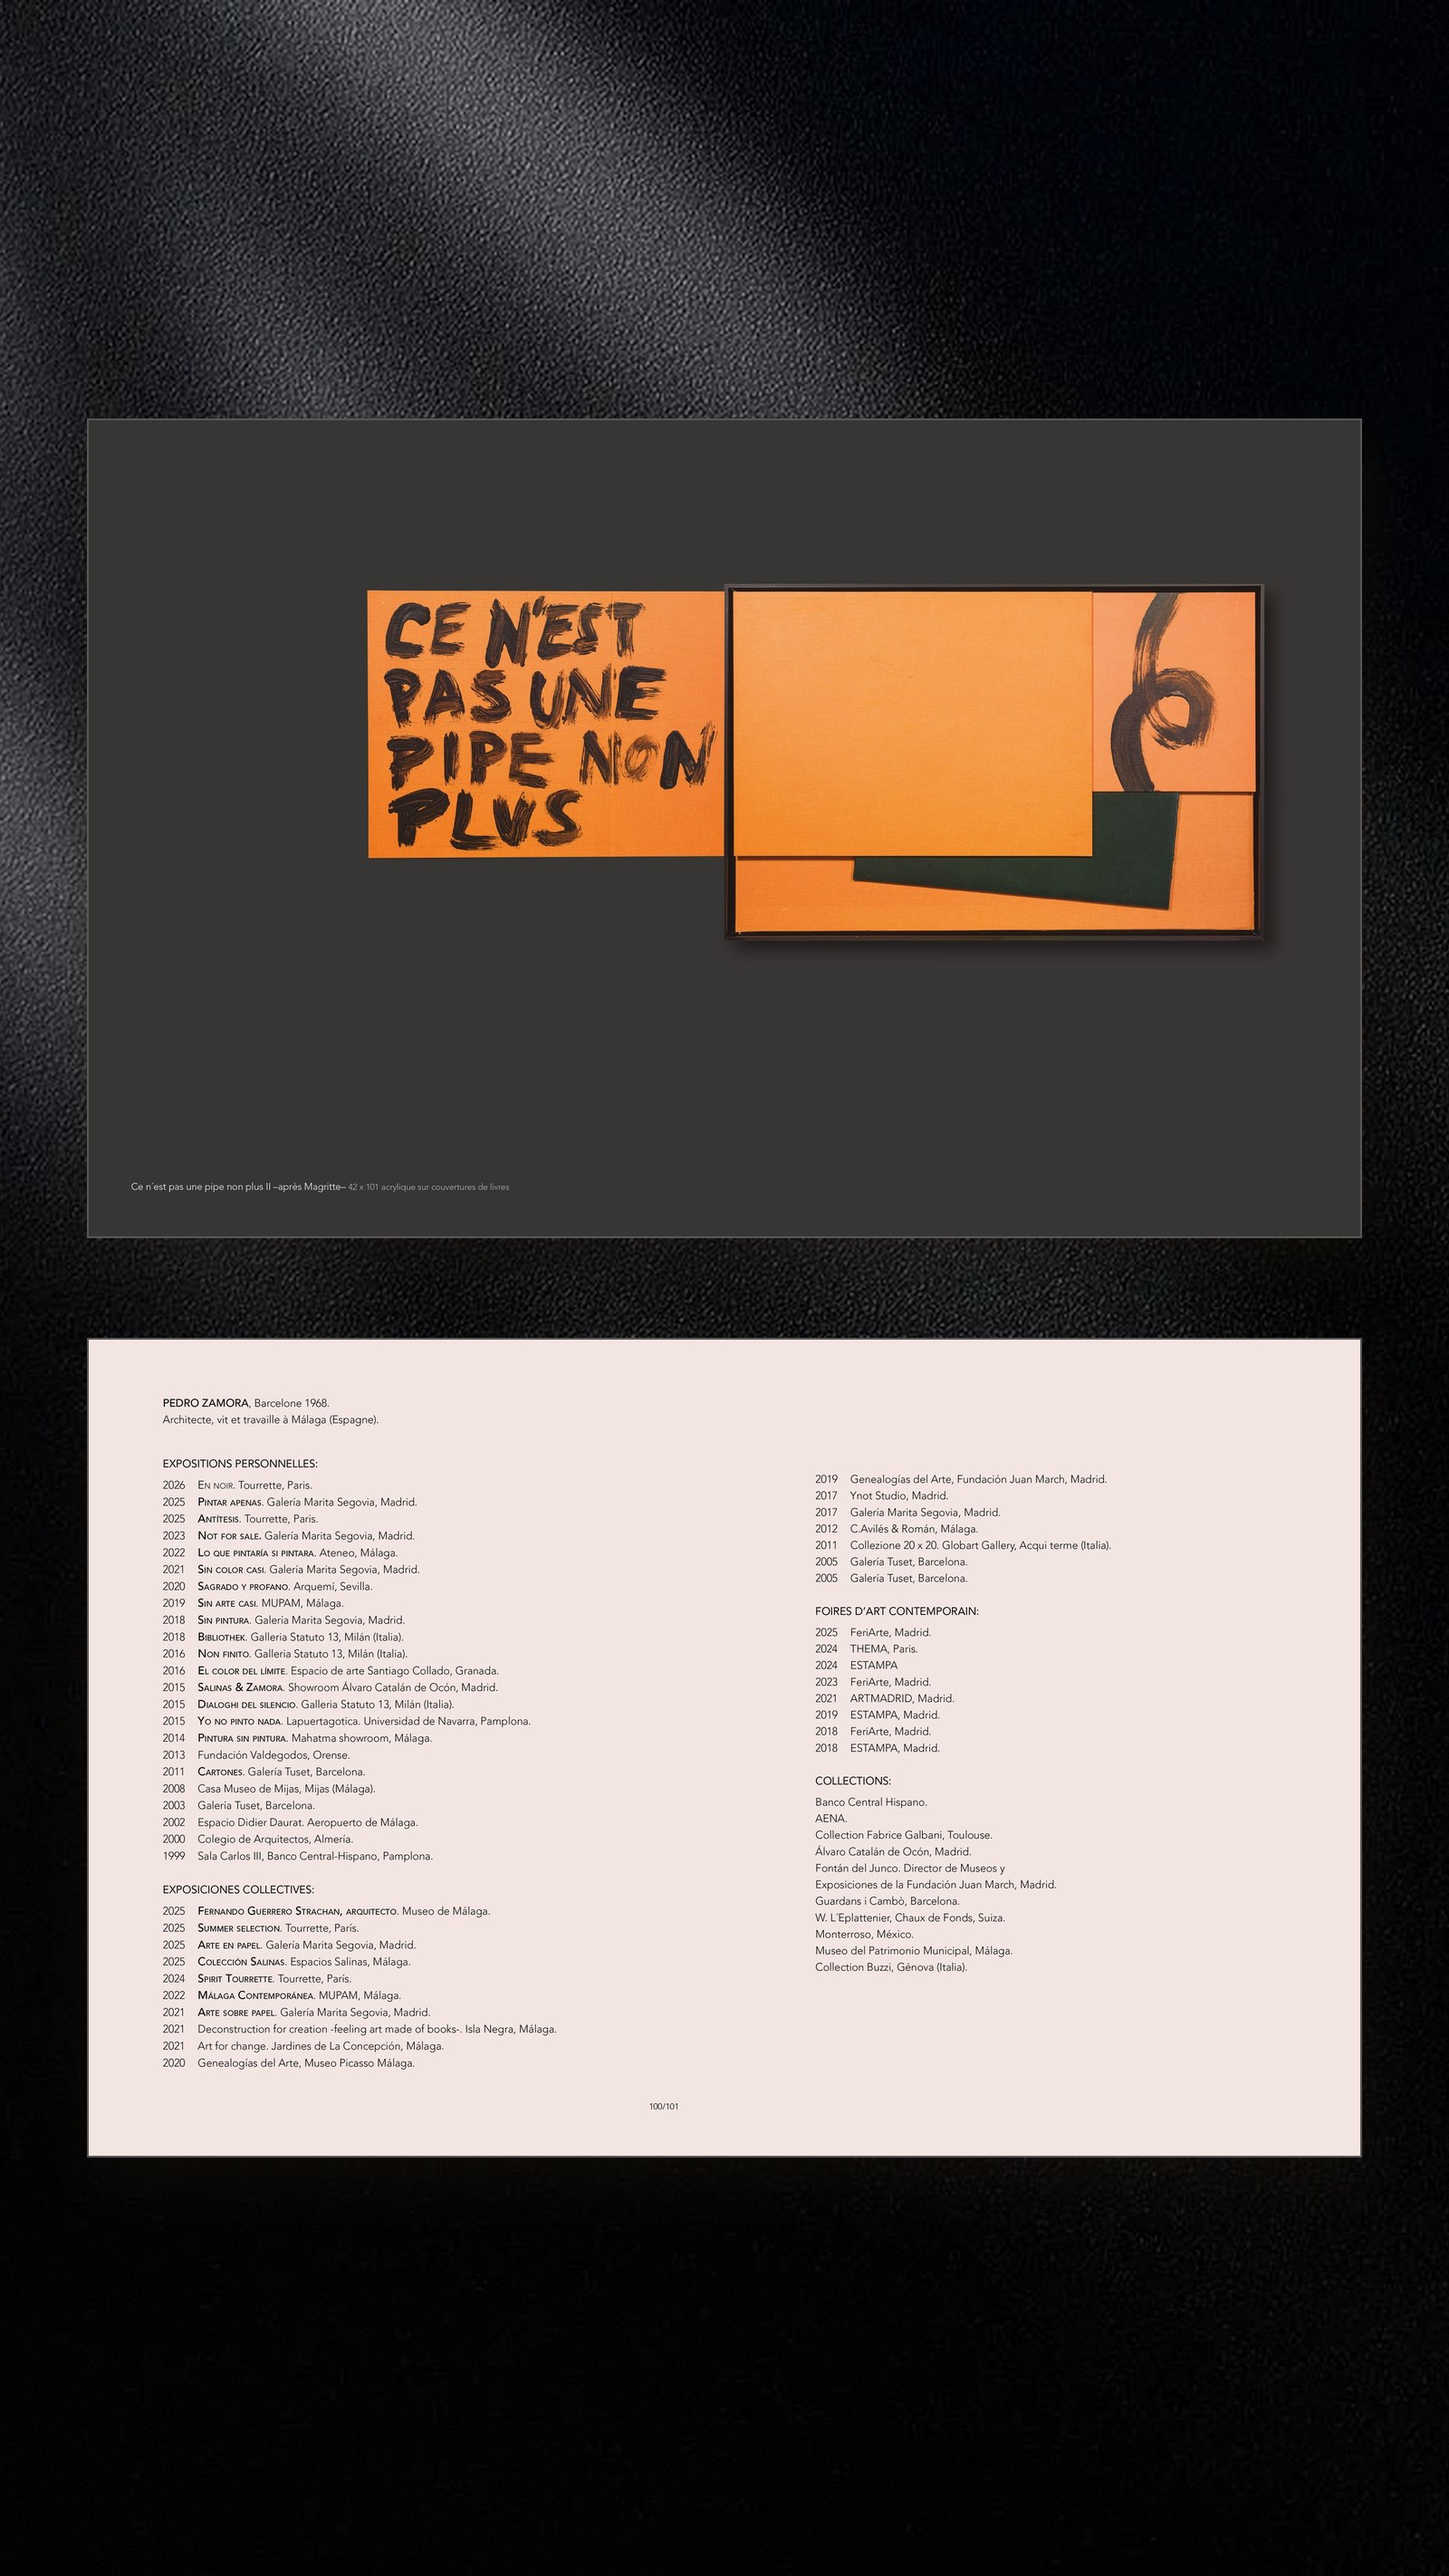
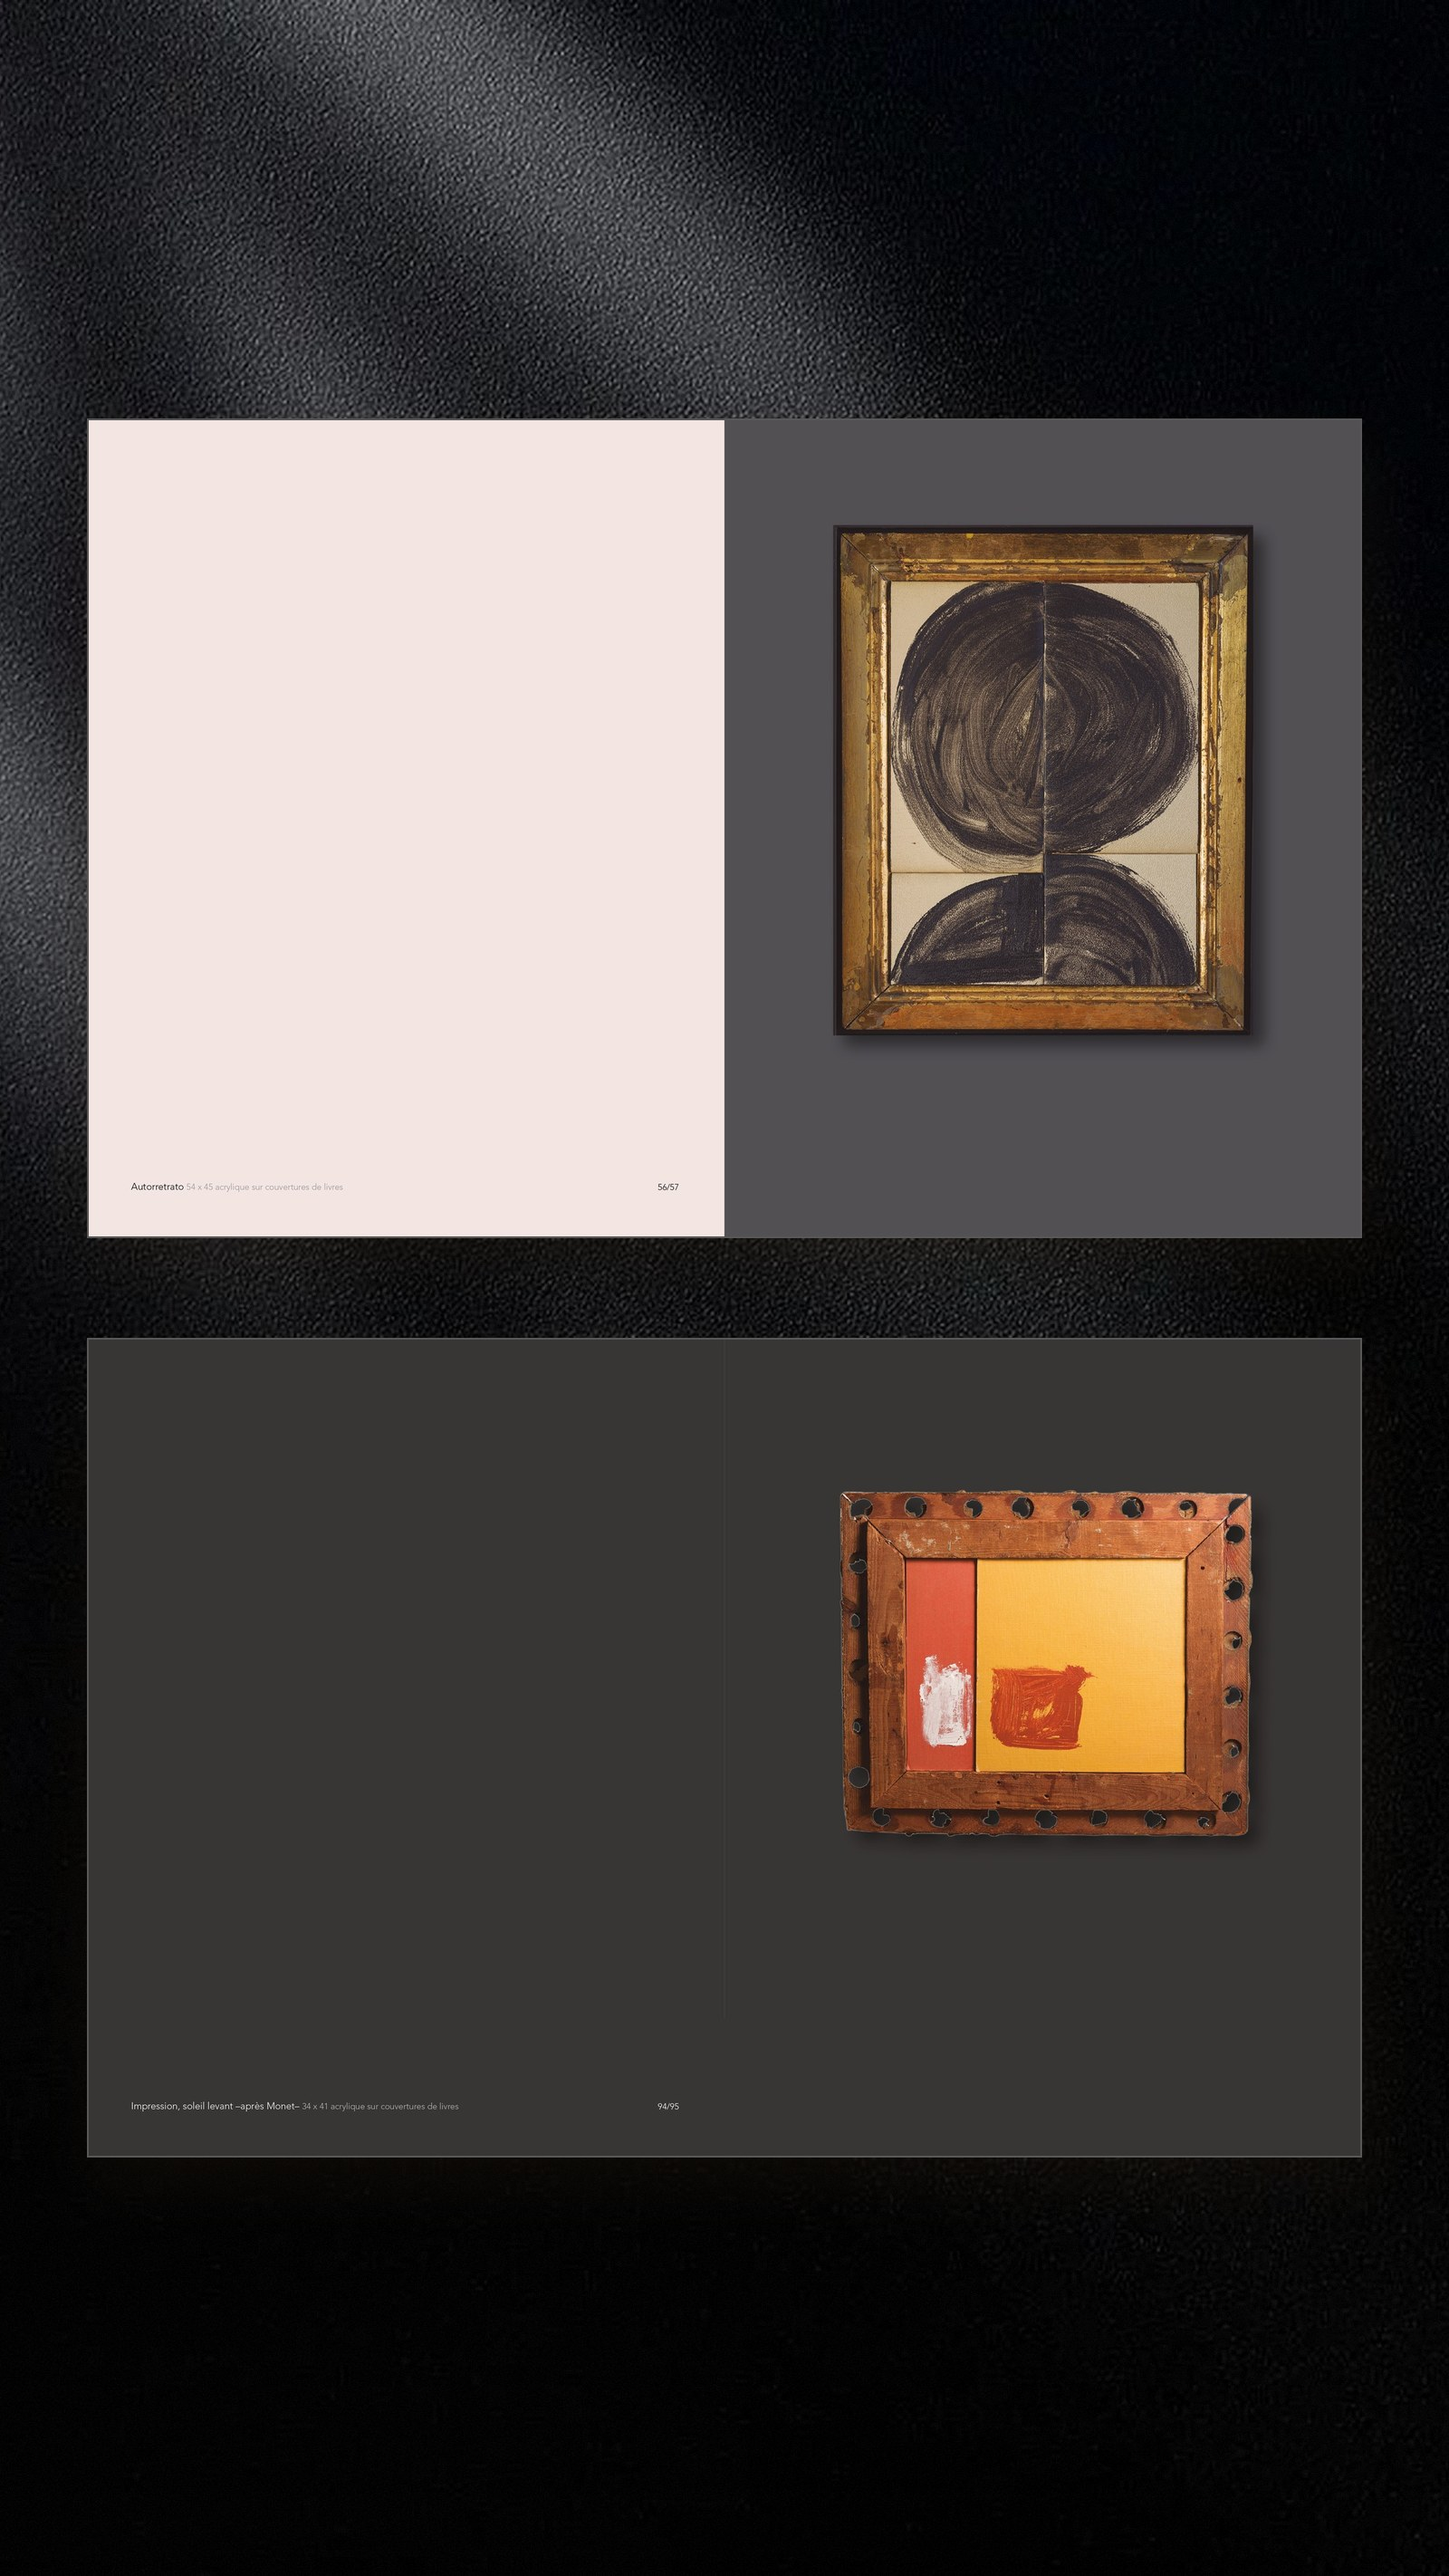
En noir: cinco imágenes con sueltas y un doble sobre cinco fondos
Claude-Session: https://claude.ai/code/session_014ZHEqD2MNxqjAg6cJYzQom

diff --git a/web/sitio/contenido.js b/web/sitio/contenido.js
@@ -149,6 +149,8 @@ window.CONTENIDO = {
           "fotos/proyectos/05-pedro-zamora-en-noir-interior-1.jpg",
           "fotos/proyectos/05-pedro-zamora-en-noir-interior-2.jpg",
           "fotos/proyectos/05-pedro-zamora-en-noir-interior-3.jpg",
+          "fotos/proyectos/05-pedro-zamora-en-noir-interior-4.jpg",
+          "fotos/proyectos/05-pedro-zamora-en-noir-interior-5.jpg",
         ],
       },
       {

diff --git a/web/scripts/en_noir_fondos.py b/web/scripts/en_noir_fondos.py
@@ -1,8 +1,9 @@
-"""Pedro Zamora. En noir: monta los seis dobles de páginas sobre los tres fondos negros del cliente (dos por fondo).
+"""Pedro Zamora. En noir: monta los seis dobles de páginas sobre los cinco fondos negros del cliente,
+mezclando sueltos y un doble (ver REPARTO).
 
-Uso: python3 web/scripts/en_noir_fondos.py <fondo1> <fondo2> <fondo3>
+Uso: python3 web/scripts/en_noir_fondos.py <fondo1> ... <fondo5>
 Los dobles originales sobre negro están en web/referencias-mockups/en-noir-dobles/1..6.jpg.
-Escribe fotos/proyectos/05-pedro-zamora-en-noir-interior-1..3.jpg.
+Escribe fotos/proyectos/05-pedro-zamora-en-noir-interior-1..5.jpg.
 """
 import sys
 from pathlib import Path
@@ -24,14 +25,19 @@ def pon(lienzo, spread, cy):
     ImageDraw.Draw(lienzo).rectangle((x, y, x + w - 1, y + h - 1), outline=(88, 88, 88), width=2)
     return h
 
+REPARTO = [[1], [2], [3, 4], [5], [6]]  # dobles de páginas que lleva cada fondo
+
 def main(fondos):
-    for i, f in enumerate(fondos, 1):
+    for i, (f, grupo) in enumerate(zip(fondos, REPARTO), 1):
         b = sf.fondo(f)
-        a, c = doble(2 * i - 1), doble(2 * i)
-        h = round(a.height * sf.W * sf.ANCHO / a.width); sep = 110
-        pon(b, a, sf.H / 2 - (h + sep) / 2)
-        pon(b, c, sf.H / 2 + (h + sep) / 2)
+        piezas = [doble(n) for n in grupo]
+        hs = [round(p.height * sf.W * sf.ANCHO / p.width) for p in piezas]
+        sep = 110
+        y = sf.H / 2 - (sum(hs) + sep * (len(hs) - 1)) / 2
+        for p, h in zip(piezas, hs):
+            pon(b, p, y + h / 2)
+            y += h + sep
         b.save(SITIO / f"05-pedro-zamora-en-noir-interior-{i}.jpg", quality=88, optimize=True, progressive=True)
 
 if __name__ == "__main__":
-    main(sys.argv[1:4])
+    main(sys.argv[1:6])
